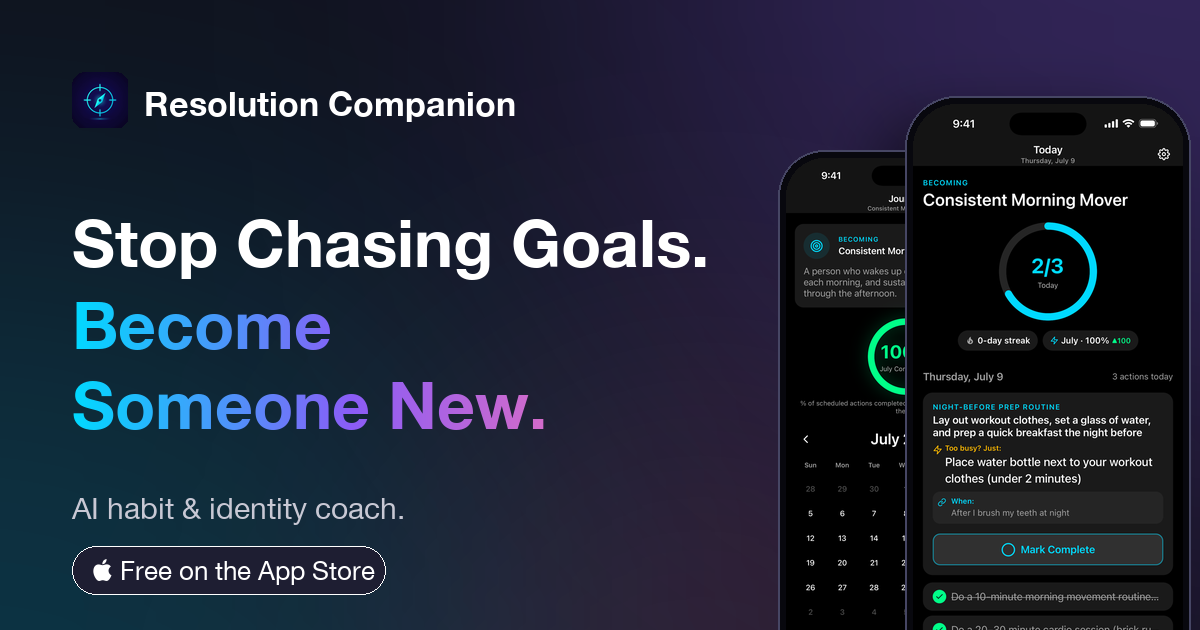
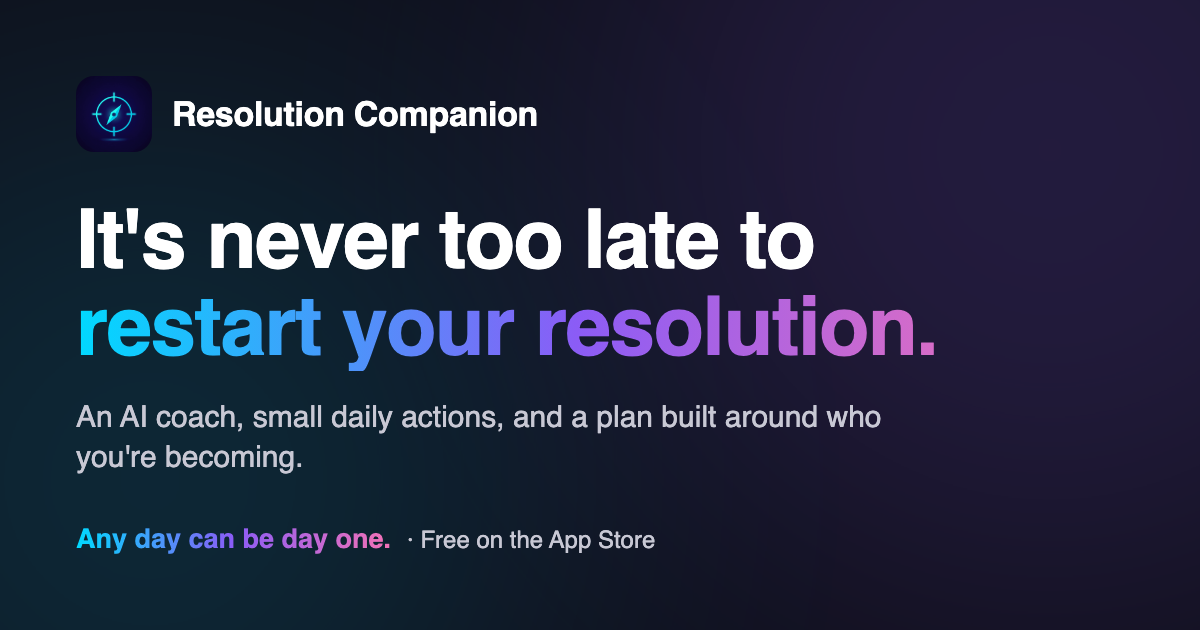
Website: reframe messaging around "it's never too late to restart your resolution"
Hero, SEO title/description, OG+Twitter title/description/alt, and the download
CTA now lead with the restart hook (kept the AI-coach/identity differentiator in
the supporting copy; the "half-time" video section already aligned). Regenerated
the OG social card (new SocialCard Remotion still) so shares show the new
headline instead of the old "Stop Chasing Goals."

diff --git a/marketing/promo-video/src/SocialCard.tsx b/marketing/promo-video/src/SocialCard.tsx
@@ -1,0 +1,42 @@
+import React from "react";
+import { AbsoluteFill, Img, staticFile } from "remotion";
+import { BG, FONT, GRADIENT, Glows, TEXT_DIM } from "./shared";
+
+// Open Graph / social share card, 1200x630. Rendered to a still PNG:
+//   npx remotion still SocialCard out/social-card.png
+// then copied to public/assets/website/social-card.png.
+export const SocialCard: React.FC = () => {
+  return (
+    <AbsoluteFill style={{ backgroundColor: BG, fontFamily: FONT }}>
+      <Glows />
+      <AbsoluteFill style={{ padding: 76, justifyContent: "space-between" }}>
+        {/* Brand lockup */}
+        <div style={{ display: "flex", alignItems: "center", gap: 20 }}>
+          <Img src={staticFile("app-logo.png")} style={{ width: 76, height: 76, borderRadius: 18 }} />
+          <div style={{ fontSize: 34, fontWeight: 700, color: "white", letterSpacing: -0.3 }}>
+            Resolution Companion
+          </div>
+        </div>
+
+        {/* Headline */}
+        <div style={{ maxWidth: 1000 }}>
+          <div style={{ fontSize: 82, fontWeight: 800, color: "white", lineHeight: 1.06, letterSpacing: -1.5 }}>
+            It's never too late to
+          </div>
+          <div style={{ fontSize: 82, fontWeight: 800, lineHeight: 1.06, letterSpacing: -1.5, ...GRADIENT }}>
+            restart your resolution.
+          </div>
+          <div style={{ fontSize: 30, color: TEXT_DIM, marginTop: 26, lineHeight: 1.35, maxWidth: 880 }}>
+            An AI coach, small daily actions, and a plan built around who you're becoming.
+          </div>
+        </div>
+
+        {/* Footer */}
+        <div style={{ display: "flex", alignItems: "baseline", gap: 16 }}>
+          <div style={{ fontSize: 27, fontWeight: 700, ...GRADIENT }}>Any day can be day one.</div>
+          <div style={{ fontSize: 24, color: TEXT_DIM }}>· Free on the App Store</div>
+        </div>
+      </AbsoluteFill>
+    </AbsoluteFill>
+  );
+};

diff --git a/server/templates/landing-page.html b/server/templates/landing-page.html
@@ -1,12 +1,12 @@
 <!doctype html>
 <html lang="en">
   <head>
-    <title>Resolution Companion | AI Habit &amp; Identity Coach</title>
+    <title>Resolution Companion | Restart Your Resolution with an AI Coach</title>
     <meta charset="utf-8" />
     <meta name="viewport" content="width=device-width, initial-scale=1" />
     <meta
       name="description"
-      content="Build lasting habits with identity-based AI coaching, daily actions, milestones, a Journey calendar, and private on-device progress tracking."
+      content="It's never too late to restart your resolution. Resolution Companion helps you begin again — with AI coaching, small daily actions, and a plan built around who you're becoming."
     />
     <meta
       name="robots"
@@ -41,11 +41,11 @@
     <meta property="og:url" content="BASE_URL_PLACEHOLDER/" />
     <meta
       property="og:title"
-      content="Resolution Companion | AI Habit &amp; Identity Coach"
+      content="It's never too late to restart your resolution"
     />
     <meta
       property="og:description"
-      content="Build lasting habits by defining who you're becoming, taking small daily actions, and reflecting with an AI coach."
+      content="The goal you dropped in February isn't gone. Pick it back up — with an AI coach, small daily actions, and a plan built around who you're becoming."
     />
     <meta
       property="og:image"
@@ -55,16 +55,16 @@
     <meta property="og:image:height" content="630" />
     <meta
       property="og:image:alt"
-      content="Resolution Companion — Stop Chasing Goals. Become Someone New."
+      content="Resolution Companion — It's never too late to restart your resolution."
     />
     <meta name="twitter:card" content="summary_large_image" />
     <meta
       name="twitter:title"
-      content="Resolution Companion | AI Habit &amp; Identity Coach"
+      content="It's never too late to restart your resolution"
     />
     <meta
       name="twitter:description"
-      content="Build lasting habits by defining who you're becoming, taking small daily actions, and reflecting with an AI coach."
+      content="The goal you dropped in February isn't gone. Pick it back up — with an AI coach, small daily actions, and a plan built around who you're becoming."
     />
     <meta
       name="twitter:image"
@@ -72,7 +72,7 @@
     />
     <meta
       name="twitter:image:alt"
-      content="Resolution Companion — Stop Chasing Goals. Become Someone New."
+      content="Resolution Companion — It's never too late to restart your resolution."
     />
 
     <link rel="preconnect" href="https://fonts.googleapis.com" />
@@ -2704,14 +2704,14 @@
             <span>Identity-Based Change</span>
           </div>
           <h1>
-            Stop Chasing Goals.<br /><span class="gradient-text"
-              >Become Someone New.</span
+            It's never too late to<br /><span class="gradient-text"
+              >restart your resolution.</span
             >
           </h1>
           <p class="hero-subtitle">
-            Tired of broken resolutions and lost streaks? Resolution Companion
-            uses identity-driven coaching to create sustainable behavior change.
-            Define who you're becoming, not just what you're doing.
+            The goal you dropped in February isn't gone. Resolution Companion
+            helps you pick it back up — with an AI coach, small daily actions,
+            and a plan built around who you're becoming. Any day can be day one.
           </p>
           <div class="hero-buttons">
             <a
@@ -3716,10 +3716,11 @@
     <section class="download" id="download">
       <div class="container">
         <div class="section-header">
-          <div class="section-label">Get Started</div>
-          <h2 class="section-title">Start Your Journey Today</h2>
+          <div class="section-label">It's not too late</div>
+          <h2 class="section-title">Restart your resolution today</h2>
           <p class="section-subtitle">
-            Download Resolution Companion and begin transforming who you become.
+            Pick up the goal you dropped — this time with an AI coach in your
+            corner. Any day can be day one.
           </p>
         </div>
 

diff --git a/marketing/promo-video/src/Root.tsx b/marketing/promo-video/src/Root.tsx
@@ -16,6 +16,7 @@ import {
   IPhoneWideMaster,
   IPhoneWideShort,
 } from "./IPhonePromo";
+import { SocialCard } from "./SocialCard";
 
 // Feed-format sizes for the flagship script (Instagram/Facebook feed posts).
 // All scripts render at 9:16 (1080×1920) — the master format for TikTok,
@@ -117,6 +118,15 @@ export const RemotionRoot: React.FC = () => {
         fps={30}
         width={1920}
         height={1080}
+      />
+      {/* Open Graph / social share card (1200x630 still). */}
+      <Composition
+        id="SocialCard"
+        component={SocialCard}
+        durationInFrames={1}
+        fps={30}
+        width={1200}
+        height={630}
       />
       {/* ~15s paid-ad cut (9:16): hook-first, bold captions, App Store end card. */}
       <Composition